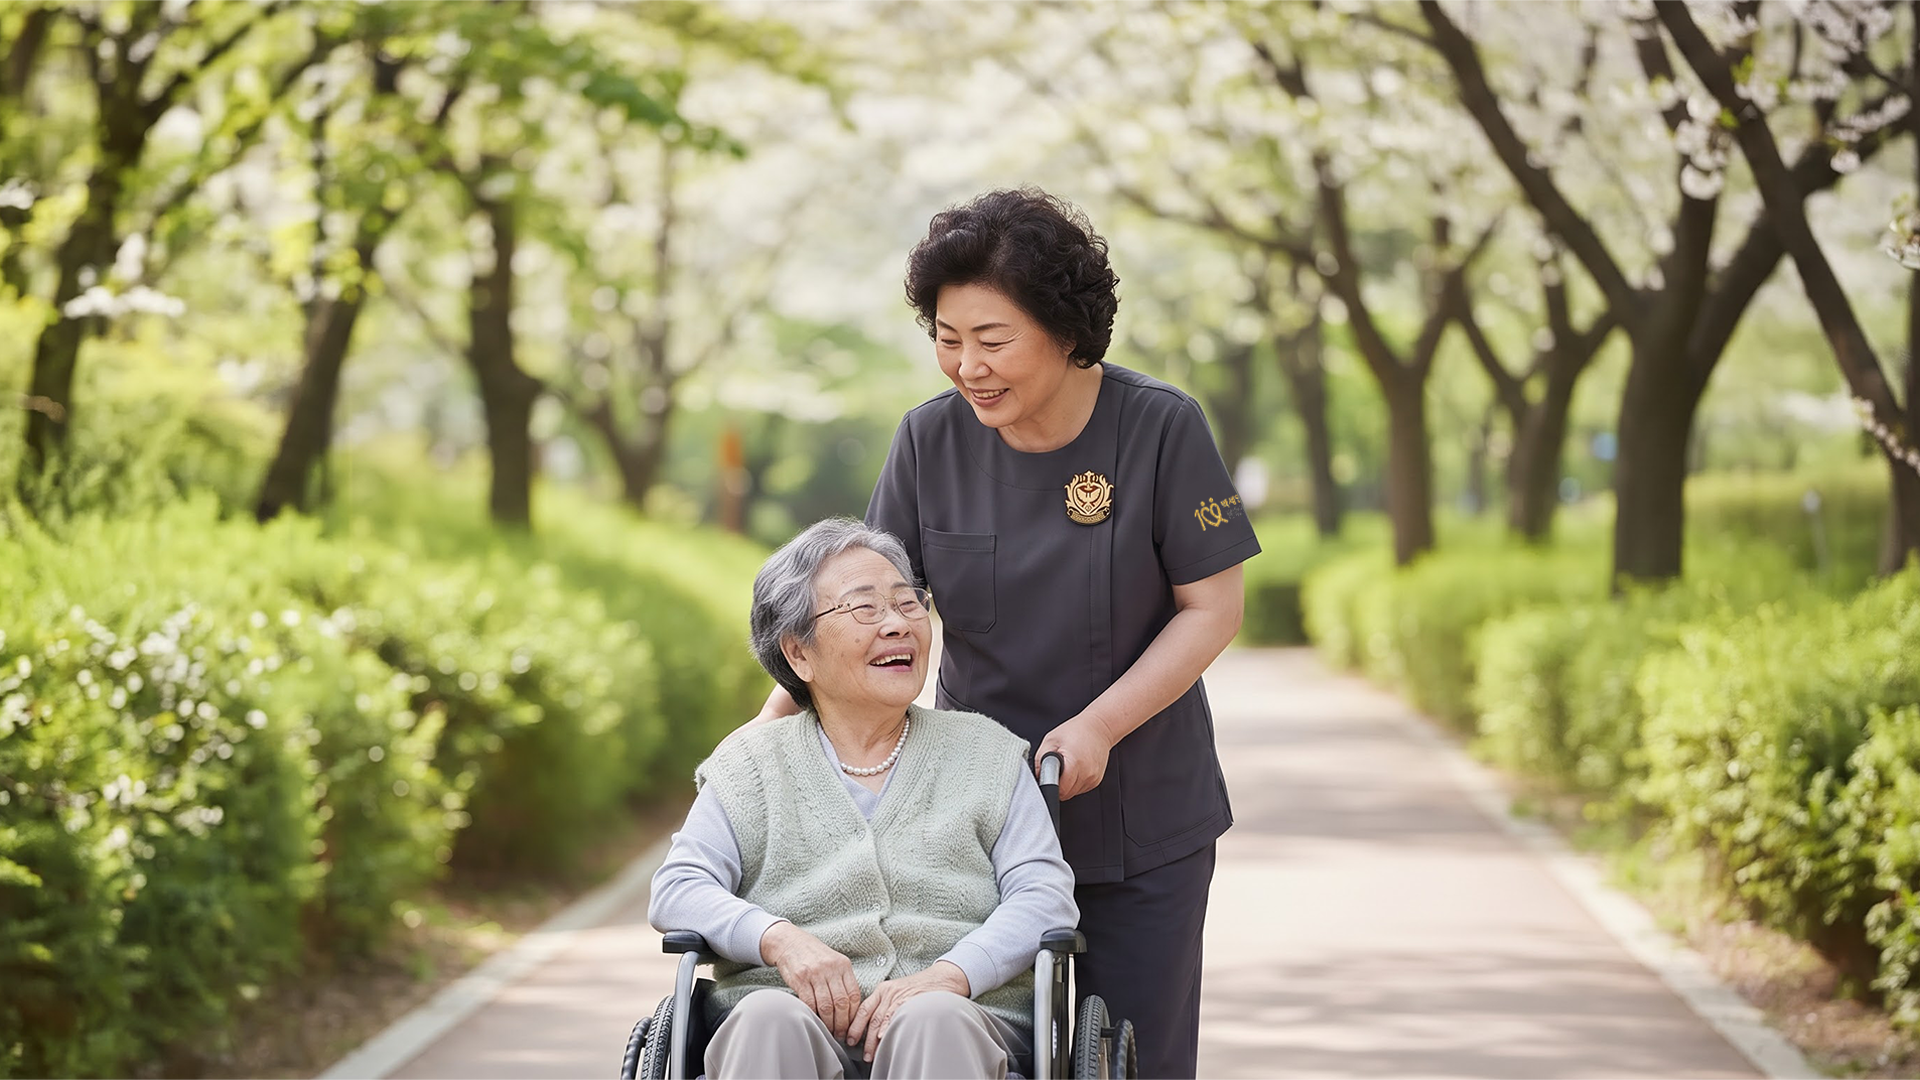
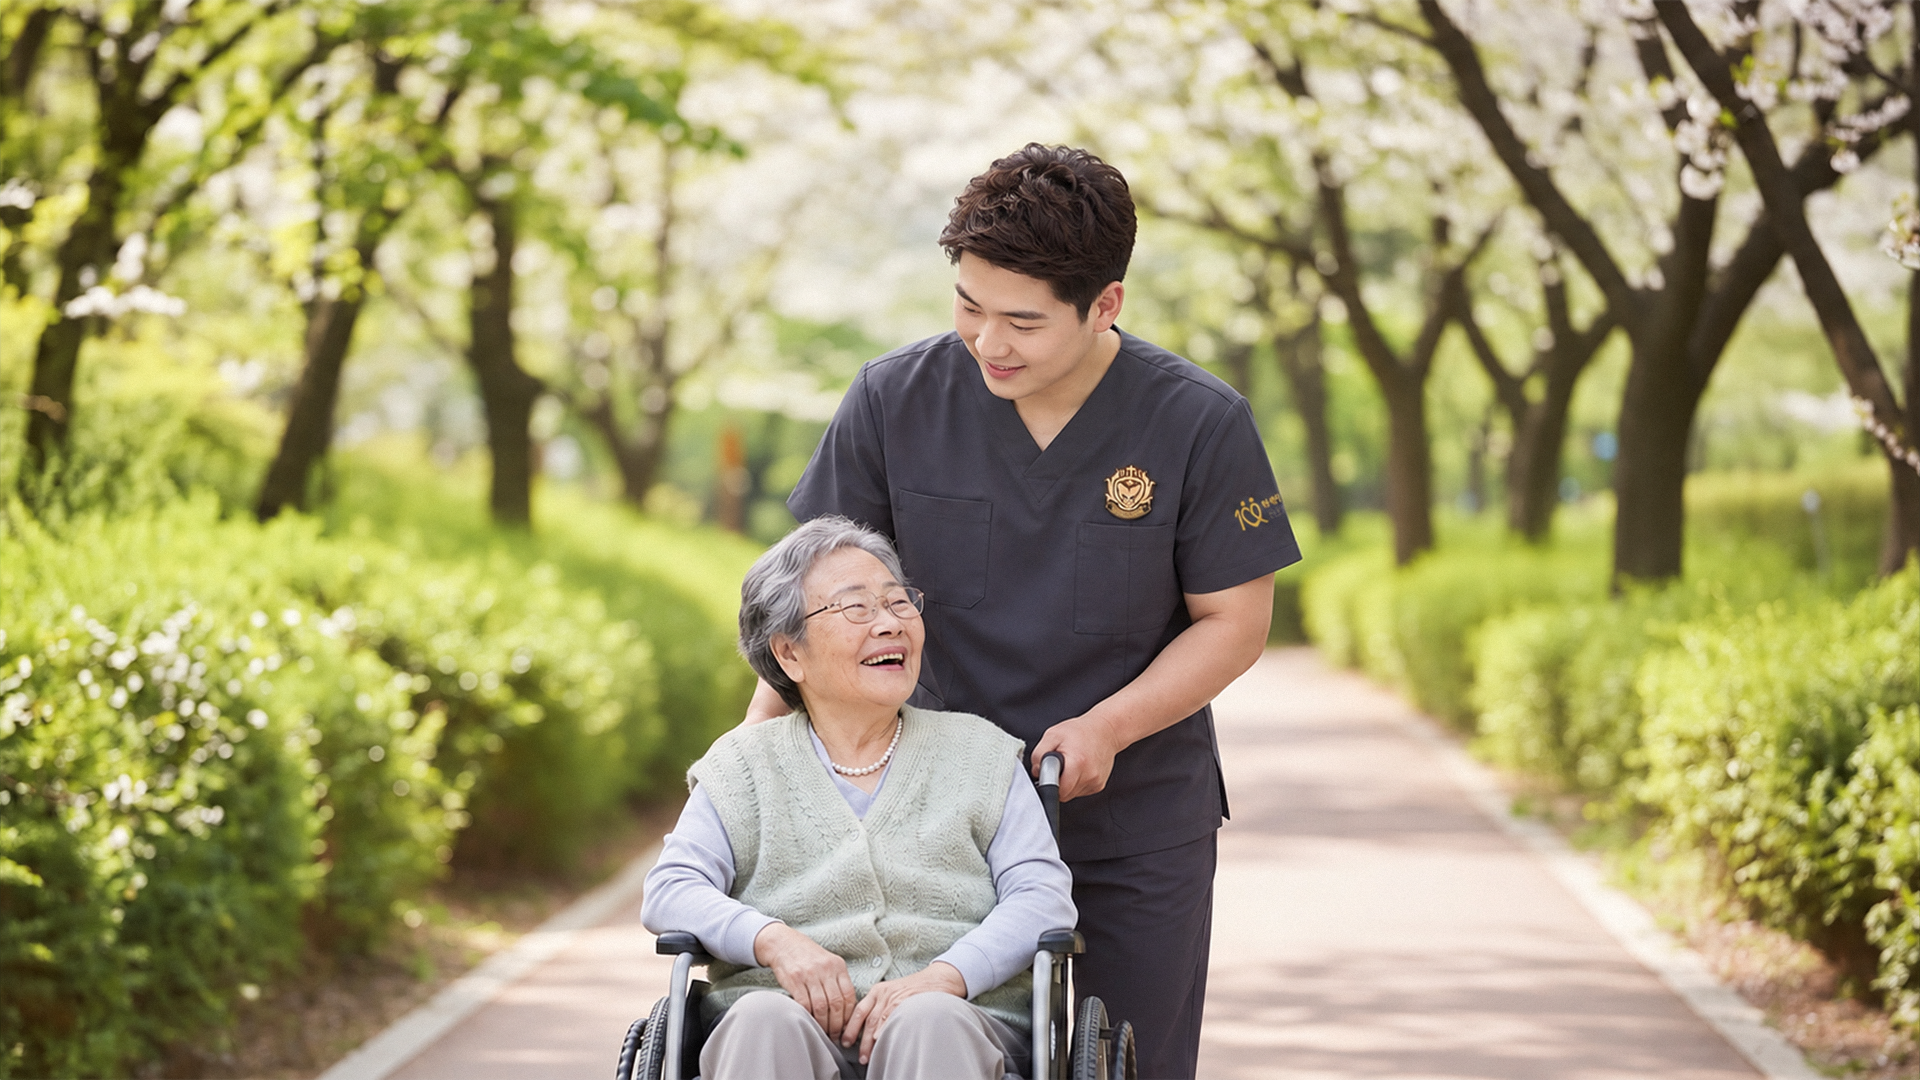
Add site-wide copy protection and finalize case study photo update
- Block right-click, text drag-selection, and copy/cut on page content
  via new css/no-copy.css and js/no-copy.js, loaded on every page while
  leaving form inputs, textareas, and selects fully editable/selectable
- Replace case study progress note with a before/after photo (c1-1.png)
  and refresh board intro copy

diff --git a/case.html b/case.html
@@ -9,8 +9,9 @@
   <link rel="preconnect" href="https://fonts.gstatic.com" crossorigin>
   <link href="https://fonts.googleapis.com/css2?family=Noto+Sans+KR:wght@300;400;500;700;800&display=swap" rel="stylesheet">
   <link rel="stylesheet" href="css/style.css?v=20260904-r5">
-  <link rel="stylesheet" href="css/case.css?v=20260905-r13">
+  <link rel="stylesheet" href="css/case.css?v=20260905-r31">
   <link rel="stylesheet" href="css/consistency.css?v=20260905-r197">
+  <link rel="stylesheet" href="css/no-copy.css?v=20260905-r1">
   <meta http-equiv="Content-Security-Policy" content="default-src 'self'; script-src 'self'; style-src 'self' https://fonts.googleapis.com; font-src https://fonts.gstatic.com; img-src 'self'; connect-src 'self'; object-src 'none'; base-uri 'self'; form-action 'self';">
 </head>
 <body data-page="case">
@@ -146,7 +147,11 @@
               </div>
               <div class="case-section">
                 <h4>현재 관리 상황</h4>
-                <p><strong>주 5회 방문, 지속적인 관찰과 드레싱.</strong> 상처의 작은 변화도 놓치지 않도록 주 5회 방문하여 상태를 관찰하고 드레싱을 지속했습니다. 그 결과 욕창은 3단계에서 2단계로 호전되는 경과를 보이고 있습니다.</p>
+                <p><strong>주 5회 방문, 지속적인 관찰과 드레싱.</strong> 상처의 작은 변화도 놓치지 않도록 주 5회 방문하여 상태를 관찰하고 드레싱을 지속했습니다.</p>
+                <div class="case-process-image-item">
+                  <img class="case-process-image" src="images/png/c1-1.png?v=20260905" alt="케이스 1 욕창 드레싱 경과 비교 이미지 (4월 16일 시행 전, 4월 27일 경과)" width="1000" height="500" loading="lazy">
+                </div>
+                <p>그 결과 발꿈치의 욕창은 사진에서처럼 호전되고 있습니다.</p>
               </div>
             </div>
             <p class="case-takeaway">상처를 한 번 처치하는 데서 끝나지 않고, 회복 과정 전체를 지속적으로 관찰하는 간호입니다.</p>
@@ -520,6 +525,7 @@
   <div id="footer-placeholder"></div>
 
   <script src="js/main.js?v=20260904-r20"></script>
-  <script src="js/case.js?v=20260904-r6"></script>
+  <script src="js/case.js?v=20260905-r7"></script>
+  <script src="js/no-copy.js?v=20260905-r1"></script>
 </body>
 </html>

diff --git a/board-detail.html b/board-detail.html
@@ -12,6 +12,7 @@
   <link rel="stylesheet" href="css/style.css?v=20260904-r5">
   <link rel="stylesheet" href="css/board-detail.css?v=20260904-r7">
   <link rel="stylesheet" href="css/consistency.css?v=20260905-r197">
+  <link rel="stylesheet" href="css/no-copy.css?v=20260905-r1">
   <meta http-equiv="Content-Security-Policy" content="default-src 'self'; script-src 'self'; style-src 'self' https://fonts.googleapis.com; font-src https://fonts.gstatic.com; img-src 'self' https:; connect-src 'self' https://script.google.com https://script.googleusercontent.com; object-src 'none'; base-uri 'self'; form-action 'self';">
 </head>
 <body data-page="board">
@@ -23,8 +24,8 @@
       <div class="page-header-content">
         <h1>방문간호 이야기</h1>
         <p class="page-header-desc">
-          <strong>백세인생 방문간호의 활동 내역과 방문간호에 대한 다양한 정보를 전합니다.</strong>
-          <span>실제 방문간호 현장의 이야기부터 집에서 이어지는 간호에 필요한 유용한 정보를 정기적으로 소개합니다.</span>
+          <strong>집에서 이어지는 간호에 필요한 정보와 백세인생 방문간호의 이야기를 전합니다.</strong>
+          <span>방문간호 이용방법부터 질환별 건강관리, 실제 방문간호 현장의 이야기까지 보호자와 어르신에게 도움이 되는 정보를 정기적으로 소개합니다.</span>
         </p>
       </div>
     </div>
@@ -67,5 +68,6 @@
   <script src="js/board-data.js"></script>
   <script src="js/board-detail.js?v=20260905-r1"></script>
   <script src="js/main.js?v=20260904-r20"></script>
+  <script src="js/no-copy.js?v=20260905-r1"></script>
 </body>
 </html>

diff --git a/board.html b/board.html
@@ -12,6 +12,7 @@
   <link rel="stylesheet" href="css/style.css?v=20260904-r5">
   <link rel="stylesheet" href="css/board.css?v=20260904-r13">
   <link rel="stylesheet" href="css/consistency.css?v=20260905-r197">
+  <link rel="stylesheet" href="css/no-copy.css?v=20260905-r1">
   <meta http-equiv="Content-Security-Policy" content="default-src 'self'; script-src 'self'; style-src 'self' https://fonts.googleapis.com; font-src https://fonts.gstatic.com; img-src 'self' https:; connect-src 'self' https://script.google.com https://script.googleusercontent.com; object-src 'none'; base-uri 'self'; form-action 'self';">
 </head>
 <body data-page="board">
@@ -23,8 +24,8 @@
       <div class="page-header-content">
         <h1>방문간호 이야기</h1>
         <p class="page-header-desc">
-          <strong>백세인생 방문간호의 활동 내역과 방문간호에 대한 다양한 정보를 전합니다.</strong>
-          <span>실제 방문간호 현장의 이야기부터 집에서 이어지는 간호에 필요한 유용한 정보를 정기적으로 소개합니다.</span>
+          <strong>집에서 이어지는 간호에 필요한 정보와 백세인생 방문간호의 이야기를 전합니다.</strong>
+          <span>방문간호 이용방법부터 질환별 건강관리, 실제 방문간호 현장의 이야기까지 보호자와 어르신에게 도움이 되는 정보를 정기적으로 소개합니다.</span>
         </p>
       </div>
     </div>
@@ -57,5 +58,6 @@
   <script src="js/board-data.js"></script>
   <script src="js/board.js?v=20260904-r7"></script>
   <script src="js/main.js?v=20260904-r20"></script>
+  <script src="js/no-copy.js?v=20260905-r1"></script>
 </body>
 </html>

diff --git a/about.html b/about.html
@@ -11,6 +11,7 @@
   <link rel="stylesheet" href="css/style.css?v=20260904-r5">
   <link rel="stylesheet" href="css/about.css?v=20260824-r29">
   <link rel="stylesheet" href="css/consistency.css?v=20260905-r197">
+  <link rel="stylesheet" href="css/no-copy.css?v=20260905-r1">
   <meta http-equiv="Content-Security-Policy" content="default-src 'self'; script-src 'self' 'unsafe-inline' https://ssl.daumcdn.net https://*.daumcdn.net https://*.kakaocdn.net; style-src 'self' https://fonts.googleapis.com https://*.daumcdn.net https://*.kakaocdn.net; font-src https://fonts.gstatic.com; img-src 'self' https://*.daumcdn.net https://*.daum.net https://*.kakaocdn.net https://*.kakao.com; connect-src 'self' https://*.daumcdn.net https://*.daum.net https://*.kakaocdn.net https://*.kakao.com; frame-src https://*.daum.net; object-src 'none'; base-uri 'self'; form-action 'self'; upgrade-insecure-requests;">
 </head>
 <body data-page="about">
@@ -367,5 +368,6 @@
   <script src="js/main.js?v=20260904-r20"></script>
   <script charset="UTF-8" class="daum_roughmap_loader_script" src="https://ssl.daumcdn.net/dmaps/map_js_init/roughmapLoader.js"></script>
   <script src="js/about.js?v=20260814-scroll1"></script>
+  <script src="js/no-copy.js?v=20260905-r1"></script>
 </body>
 </html>

diff --git a/index.html b/index.html
@@ -10,6 +10,7 @@
   <link href="https://fonts.googleapis.com/css2?family=Noto+Sans+KR:wght@300;400;500;700;800&display=swap" rel="stylesheet">
   <link rel="stylesheet" href="css/style.css?v=20260904-r5">
   <link rel="stylesheet" href="css/consistency.css?v=20260905-r197">
+  <link rel="stylesheet" href="css/no-copy.css?v=20260905-r1">
   <meta property="og:type" content="website">
   <meta property="og:title" content="백세인생 방문간호센터 | 가정으로 찾아가는 전문 방문간호">
   <meta property="og:description" content="임상 경험을 갖춘 전문 간호사가 직접 가정을 방문하여 욕창관리, 재활간호, 만성질환관리 등 개인 맞춤 방문간호 서비스를 제공합니다.">
@@ -180,5 +181,6 @@
   <div id="footer-placeholder"></div>
   <script src="js/service-catalog.js?v=20260824-r7"></script>
   <script src="js/main.js?v=20260904-r20"></script>
+  <script src="js/no-copy.js?v=20260905-r1"></script>
 </body>
 </html>

diff --git a/counseling.html b/counseling.html
@@ -11,6 +11,7 @@
   <link rel="stylesheet" href="css/style.css?v=20260904-r5">
   <link rel="stylesheet" href="css/counseling.css?v=20260722-r14">
   <link rel="stylesheet" href="css/consistency.css?v=20260905-r197">
+  <link rel="stylesheet" href="css/no-copy.css?v=20260905-r1">
   <meta http-equiv="Content-Security-Policy" content="default-src 'self'; script-src 'self'; style-src 'self' https://fonts.googleapis.com; font-src https://fonts.gstatic.com; img-src 'self' data:; connect-src 'self' https://script.google.com https://script.googleusercontent.com; object-src 'none'; base-uri 'self'; form-action 'self';">
 </head>
 <body data-page="counseling">
@@ -252,5 +253,6 @@
 
   <script src="js/main.js?v=20260904-r20"></script>
   <script src="js/counseling.js?v=20260619-validate2"></script>
+  <script src="js/no-copy.js?v=20260905-r1"></script>
 </body>
 </html>

diff --git a/service.html b/service.html
@@ -11,6 +11,7 @@
   <link rel="stylesheet" href="css/style.css?v=20260904-r5">
   <link rel="stylesheet" href="css/service.css?v=20260905-r4">
   <link rel="stylesheet" href="css/consistency.css?v=20260905-r197">
+  <link rel="stylesheet" href="css/no-copy.css?v=20260905-r1">
   <meta http-equiv="Content-Security-Policy" content="default-src 'self'; script-src 'self'; style-src 'self' https://fonts.googleapis.com; font-src https://fonts.gstatic.com; img-src 'self'; connect-src 'self'; object-src 'none'; base-uri 'self'; form-action 'self';">
 </head>
 <body data-page="service">
@@ -429,5 +430,6 @@
   <script src="js/service-catalog.js?v=20260824-r7"></script>
   <script src="js/main.js?v=20260904-r20"></script>
   <script src="js/service.js?v=20260905-r3"></script>
+  <script src="js/no-copy.js?v=20260905-r1"></script>
 </body>
 </html>

diff --git a/js/no-copy.js b/js/no-copy.js
@@ -1,0 +1,28 @@
+// 콘텐츠 무단 복사 방지: 우클릭/복사/잘라내기 차단 (입력 요소는 예외)
+(function () {
+  "use strict";
+
+  function isEditableTarget(target) {
+    if (!target) return false;
+    var tag = target.tagName;
+    if (tag === "INPUT" || tag === "TEXTAREA" || tag === "SELECT" || tag === "OPTION") {
+      return true;
+    }
+    return !!target.isContentEditable;
+  }
+
+  document.addEventListener("contextmenu", function (e) {
+    if (isEditableTarget(e.target)) return;
+    e.preventDefault();
+  });
+
+  document.addEventListener("copy", function (e) {
+    if (isEditableTarget(e.target)) return;
+    e.preventDefault();
+  });
+
+  document.addEventListener("cut", function (e) {
+    if (isEditableTarget(e.target)) return;
+    e.preventDefault();
+  });
+})();

diff --git a/guide.html b/guide.html
@@ -11,6 +11,7 @@
   <link rel="stylesheet" href="css/style.css?v=20260904-r5">
   <link rel="stylesheet" href="css/guide.css?v=20260905-r2">
   <link rel="stylesheet" href="css/consistency.css?v=20260905-r197">
+  <link rel="stylesheet" href="css/no-copy.css?v=20260905-r1">
   <meta http-equiv="Content-Security-Policy" content="default-src 'self'; script-src 'self'; style-src 'self' https://fonts.googleapis.com; font-src https://fonts.gstatic.com; img-src 'self'; connect-src 'self'; object-src 'none'; base-uri 'self'; form-action 'self';">
 </head>
 <body data-page="guide">
@@ -711,5 +712,6 @@
 
   <script src="js/main.js?v=20260904-r20"></script>
   <script src="js/guide.js?v=20260812-r4"></script>
+  <script src="js/no-copy.js?v=20260905-r1"></script>
 </body>
 </html>

diff --git a/css/case.css b/css/case.css
@@ -306,6 +306,21 @@ body[data-page="case"] .case-row:last-child {
   border-radius: 50%;
   background: var(--color-primary);
 }
+.case-process-image-item {
+  margin-top: 10px;
+}
+.case-process-image {
+  display: block;
+  width: 67%;
+  height: auto;
+  margin: 0 auto;
+  opacity: .95;
+  border-radius: 14px;
+  border: 1px solid var(--color-border);
+}
+.case-process-image-item + p {
+  margin-top: 12px;
+}
 .case-takeaway {
   margin: 2px 0 0;
   padding: 16px 18px;

diff --git a/css/no-copy.css b/css/no-copy.css
@@ -1,0 +1,19 @@
+/* 콘텐츠 무단 복사 방지: 일반 텍스트 드래그 선택 차단 (입력 요소는 예외) */
+body {
+  -webkit-user-select: none;
+  -moz-user-select: none;
+  -ms-user-select: none;
+  user-select: none;
+}
+
+input,
+textarea,
+select,
+option,
+[contenteditable="true"],
+[contenteditable=""] {
+  -webkit-user-select: text;
+  -moz-user-select: text;
+  -ms-user-select: text;
+  user-select: text;
+}
